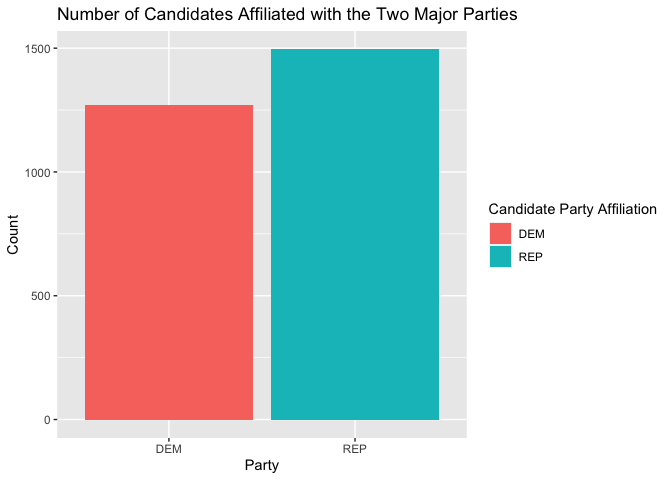
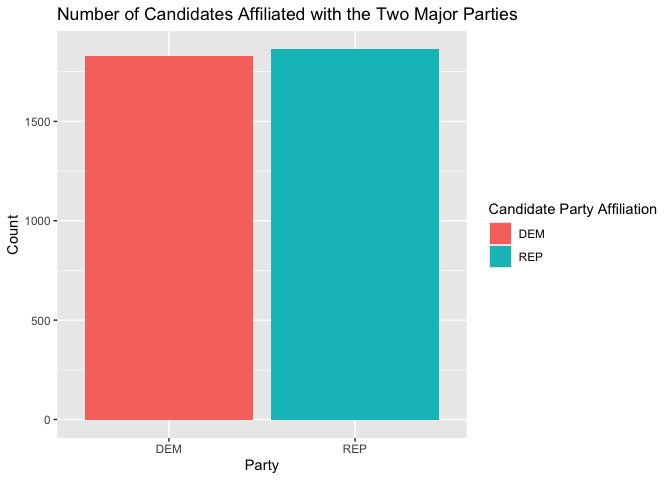
updated readme and sticker

diff --git a/README.md b/README.md
@@ -1,46 +1,33 @@
 
 <!-- README.md is generated from README.Rmd. Please edit that file -->
 
-# fec16 <img src="data-raw/Sticker/hex_fec16.png" style="float: right; height: 140px;"></img>
+# fec20 <img src="data-raw/Sticker/hex_fec20.png" style="float: right; height: 140px;"></img>
 
-<!-- badges: start -->
+> Note that this is an updated version of the `fec16` package,
+> originally created by the [Baumer
+> Lab](https://github.com/baumer-lab/fec16).
 
-[![Lifecycle:
-stable](https://img.shields.io/badge/lifecycle-stable-brightgreen)](https://lifecycle.r-lib.org/articles/stages.html#stable)
-[![CRAN
-status](https://r-pkg.org/badges/version/fec16)](https://CRAN.R-project.org/package=fec16)
-[![CRAN RStudio mirror
-downloads](https://cranlogs.r-pkg.org/badges/fec16)](https://www.r-pkg.org:443/pkg/fec16)
-[![R-CMD-check](https://github.com/baumer-lab/fec16/workflows/R-CMD-check/badge.svg)](https://github.com/baumer-lab/fec16/actions)
-<!-- badges: end -->
-
-**fec16** contains data from the [Federal Election Commission
+**fec20** contains data from the [Federal Election Commission
 (FEC)](https://www.fec.gov/) website pertaining to candidates,
 committees, results, contributions from committees and individuals, and
-other financial [data for the United States 2015-2016 election
+other financial [data for the United States 2019-2020 election
 cycle](https://www.fec.gov/data/browse-data/?tab=bulk-data).
 Additionally, for the datasets that are included as samples, the package
 includes functions that import the full versions.
 
 ## Installation
 
-Get the latest released version from CRAN:
-
-``` r
-install.packages("fec16")
-```
-
-Or the development version from GitHub:
+Get the development version from GitHub:
 
 ``` r
 # If you haven't installed the remotes package yet, do so:
 # install.packages("remotes")
-remotes::install_github("baumer-lab/fec16")
+remotes::install_github("lindsaypoirier/fec20")
 ```
 
 ``` r
 # Load package
-library(fec16)
+library(fec20)
 ```
 
 ## Datasets Included
@@ -62,9 +49,9 @@ library(fec16)
 ### Sample Datasets (with 1000 random rows each)
 
 - `individuals`: individual contributions to candidates/committees
-  during the 2016 election cycle
+  during the 2020 election cycle
 - `contributions`: candidates and their contributions from committees
-  during the 2016 election cycle
+  during the 2020 election cycle
 - `expenditures`: the operating expenditures
 - `transactions`: transactions between committees
 
@@ -76,10 +63,10 @@ calling each function is given for reference. All functions have an
 argument `n_max` which defaults to the entire dataset but the user can
 specify the max length of the dataset to be loaded via this argument.
 
-- `read_all_individuals()` ~ 1.45GB
-- `read_all_contributions()` ~ 15.4MB
-- `read_all_expenditures()` ~ 52.1MB
-- `read_all_transactions()` ~ 79.2MB
+- `read_all_individuals()` ~ 5GB
+- `read_all_contributions()` ~ 212MB
+- `read_all_expenditures()` ~ 757.8MB
+- `read_all_transactions()` ~ 2.4GB
 
 ## How is the data relational?
 
@@ -96,7 +83,7 @@ The diagram is built using the `dm` R package. The code can be found in
 
 ### Data Wrangling
 
-`fec16` can be used to summarize data in order see how many candidates
+`fec20` can be used to summarize data in order see how many candidates
 are running for elections (in all offices) for the two major parties:
 
 ``` r
@@ -111,8 +98,8 @@ data
 #> # A tibble: 2 × 2
 #>   cand_pty_affiliation  size
 #>   <chr>                <int>
-#> 1 DEM                   1270
-#> 2 REP                   1495
+#> 1 DEM                   1829
+#> 2 REP                   1862
 ```
 
 ### Data Visualization
@@ -146,3 +133,5 @@ packages:
 - [Irene Ryan](https://github.com/ireneryan)
 - [Rana Gahwagy](https://github.com/ranawg)
 - [Benjamin S. Baumer](https://github.com/beanumber)
+- [Lindsay Poirier](https://github.com/lindsaypoirier) updated the code
+  for 2020.
